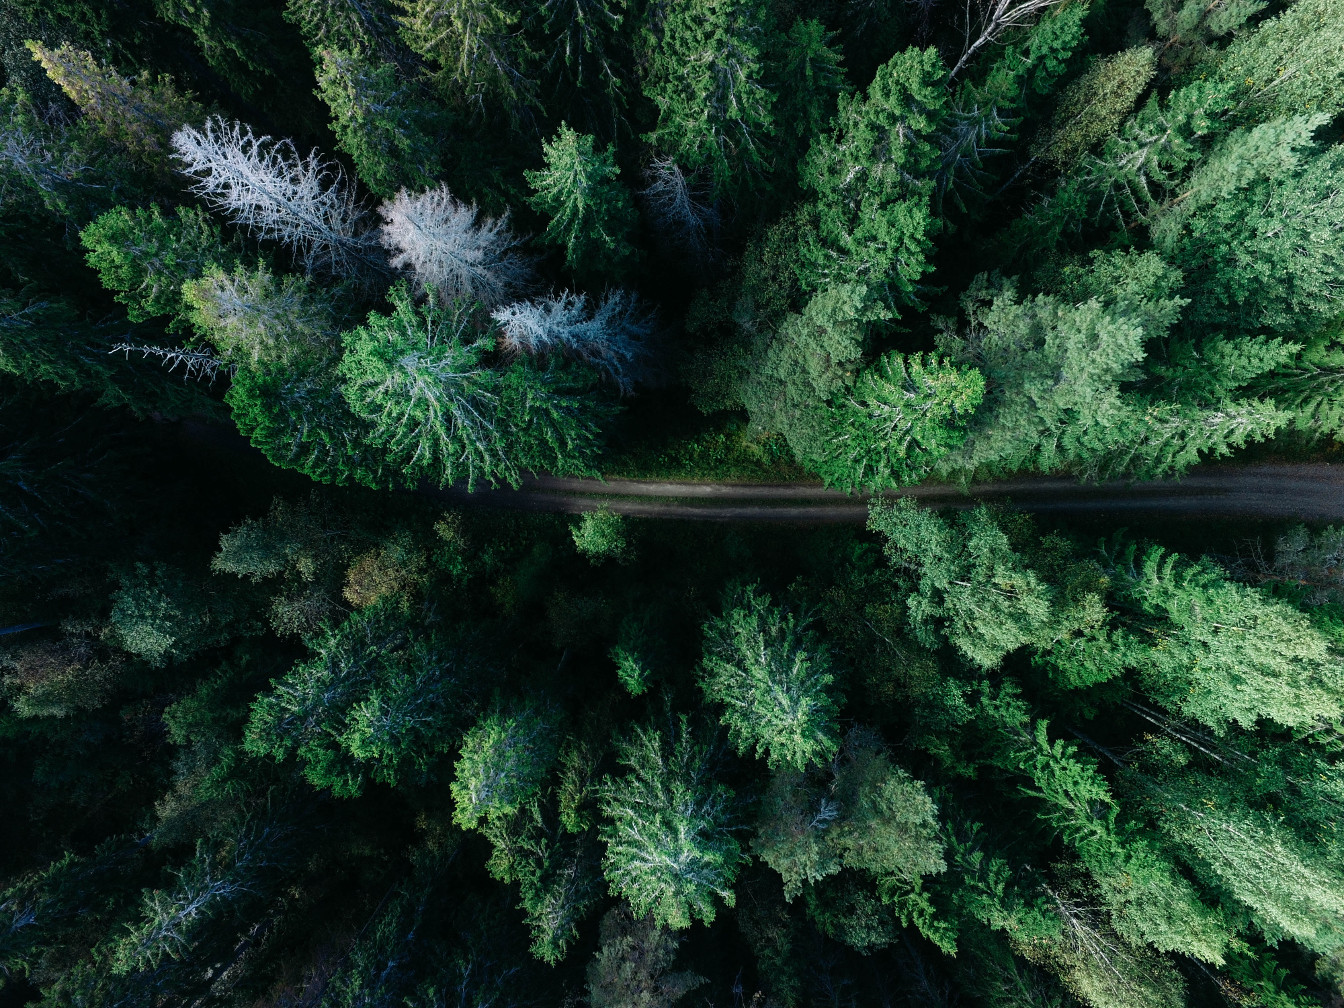
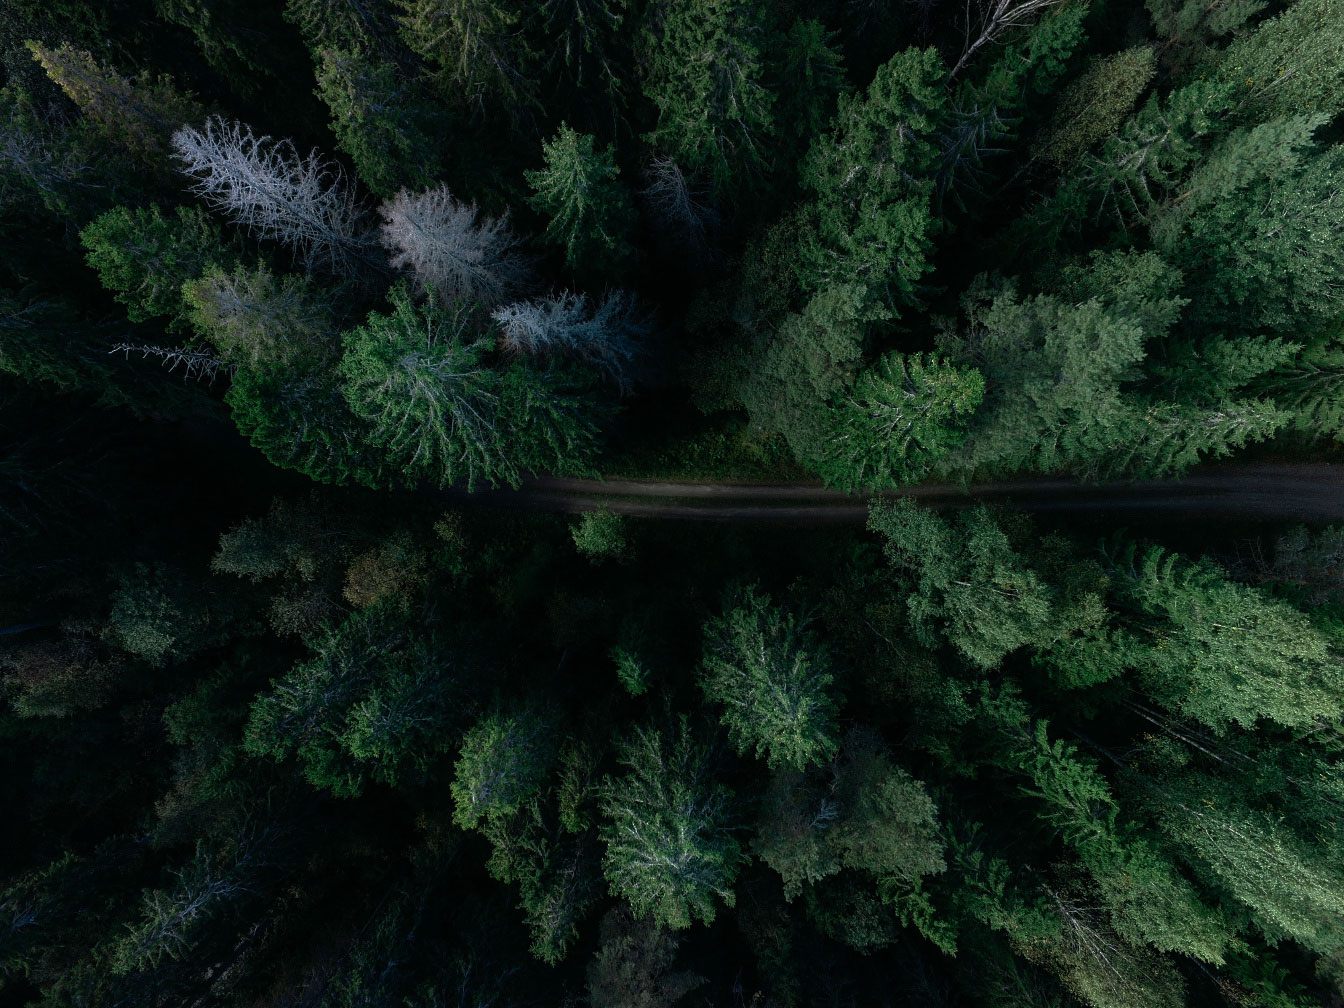
Enable customization of home page cards, darken landing page image and remove unused imager

diff --git a/src/templates/home-page.js b/src/templates/home-page.js
@@ -20,12 +20,18 @@ const PledgeHeader = styled.h1`
 const PledgeBtn = styled(Link)`
   margin: 0 15px;
 `
+const HomeSubtitle = styled(Subtitle)`
+  margin: 50px 0 0 0;
+`
 
 export const HomePageTemplate = ({
   title,
   subtitle,
   content,
-  contentComponent
+  contentComponent,
+  card1,
+  card2,
+  card3
 }) => {
   const PageContent = contentComponent || Content
 
@@ -35,22 +41,22 @@ export const HomePageTemplate = ({
         <MainNavbar />
         <HeroBody>
           <Container hasTextAlign="centered">
-            <Title isSize={2} className="has-text-white-bis">
+            <Title isSize={1} className="has-text-white-bis">
               {title}
             </Title>
-            <Subtitle isSize={5} className="has-text-white-ter">
+            <HomeSubtitle isSize={3} className="has-text-white-ter">
               {subtitle}
-            </Subtitle>
+            </HomeSubtitle>
           </Container>
         </HeroBody>
         <Hero className="is-primary" isSize="small">
           <HeroBody>
             <Container>
               <PledgeHeader className="title has-text-centered">
+                Join others and offset your crypto carbon footprint today{' '}
                 <PledgeBtn className="button is-link is-large" to="/pledge">
                   Pledge
                 </PledgeBtn>
-                Join others and offset your crypto carbon footprint today{' '}
               </PledgeHeader>
             </Container>
           </HeroBody>
@@ -65,16 +71,7 @@ export const HomePageTemplate = ({
               </div>
               <div className="card-content">
                 <div className="content">
-                  <h4>Tristique senectus et netus et. </h4>
-                  <p>
-                    Purus semper eget duis at tellus at urna condimentum mattis.
-                    Non blandit massa enim nec. Integer enim neque volutpat ac
-                    tincidunt vitae semper quis. Accumsan tortor posuere ac ut
-                    consequat semper viverra nam.
-                  </p>
-                  <p>
-                    <a href="#">Learn more</a>
-                  </p>
+                  {card1}
                 </div>
               </div>
             </div>
@@ -86,17 +83,7 @@ export const HomePageTemplate = ({
               </div>
               <div className="card-content">
                 <div className="content">
-                  <h4>Tempor orci dapibus ultrices in.</h4>
-                  <p>
-                    Ut venenatis tellus in metus vulputate. Amet consectetur
-                    adipiscing elit pellentesque. Sed arcu non odio euismod
-                    lacinia at quis risus. Faucibus turpis in eu mi bibendum
-                    neque egestas cmonsu songue. Phasellus vestibulum lorem sed
-                    risus.
-                  </p>
-                  <p>
-                    <a href="#">Learn more</a>
-                  </p>
+                  {card2}
                 </div>
               </div>
             </div>
@@ -108,16 +95,7 @@ export const HomePageTemplate = ({
               </div>
               <div className="card-content">
                 <div className="content">
-                  <h4> Leo integer malesuada nunc vel risus. </h4>
-                  <p>
-                    Imperdiet dui accumsan sit amet nulla facilisi morbi. Fusce
-                    ut placerat orci nulla pellentesque dignissim enim. Libero
-                    id faucibus nisl tincidunt eget nullam. Commodo viverra
-                    maecenas accumsan lacus vel facilisis.
-                  </p>
-                  <p>
-                    <a href="#">Learn more</a>
-                  </p>
+                  {card3}
                 </div>
               </div>
             </div>
@@ -128,6 +106,7 @@ export const HomePageTemplate = ({
   )
 }
 
+// TODO: Is this actually necessary? Given that index.js imports non default export above.
 export default ({ data }) => {
   const { markdownRemark: post } = data
 
@@ -138,6 +117,9 @@ export default ({ data }) => {
         title={post.frontmatter.title}
         subtitle={post.frontmatter.subtitle}
         content={post.html}
+        card1={post.frontmatter.card1}
+        card2={post.frontmatter.card2}
+        card3={post.frontmatter.card3}
       />
     </React.Fragment>
   )
@@ -150,6 +132,9 @@ export const HomePageQuery = graphql`
       frontmatter {
         title
         subtitle
+        card1
+        card2
+        card3
       }
     }
   }

diff --git a/src/pages/index.js b/src/pages/index.js
@@ -25,7 +25,7 @@ export default class IndexPage extends React.Component {
       edge => edge.node.frontmatter.templateKey === 'home-page'
     )[0].node.frontmatter
     const { title, subtitle } = home
-    return <HomePageTemplate title={title} subtitle={subtitle} />
+    return <HomePageTemplate title={title} subtitle={subtitle} card1={home.card1} card2={home.card2} card3={home.card3} />
   }
 }
 
@@ -40,6 +40,9 @@ export const pageQuery = graphql`
             title
             templateKey
             subtitle
+            card1
+            card2
+            card3
           }
         }
       }

diff --git a/src/cms/preview-templates/HomePagePreview.js b/src/cms/preview-templates/HomePagePreview.js
@@ -6,6 +6,9 @@ const HomePagePreview = ({ entry, widgetFor }) => (
     title={entry.getIn(['data', 'title'])}
     subtitle={entry.getIn(['data', 'subtitle'])}
     content={widgetFor('body')}
+    card1={entry.getIn(['data', 'card1'])}
+    card2={entry.getIn(['data', 'card2'])}
+    card3={entry.getIn(['data', 'card3'])}
   />
 )
 

diff --git a/src/pages/home/index.md b/src/pages/home/index.md
@@ -1,7 +1,10 @@
 ---
 templateKey: home-page
-title: A commitment to positive impact
-subtitle: "Take the cryptopledge: make a commitment to offset your crypto carbon footprint"
+title: "Take the Carbon Cryptopledge"
+subtitle: "Commit to offset the carbon footprint of your crypto transactions"
+card1: Value proposition 1
+card2: Value proposition 2
+card3: Value proposition 3
 ---
 
 Take the cryptopledge: make a commitment to offset your crypto carbon footprint
